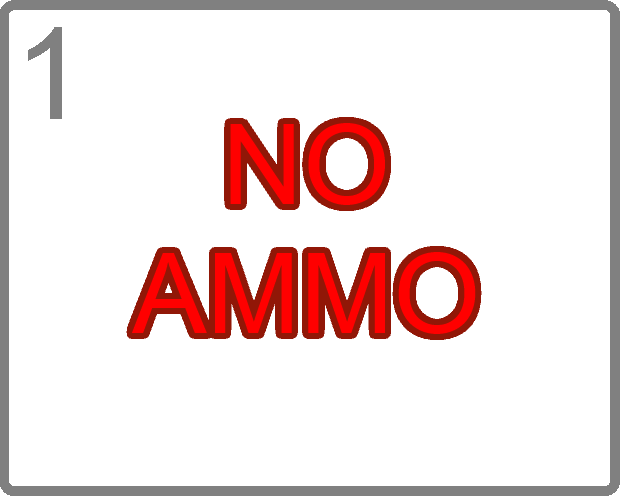
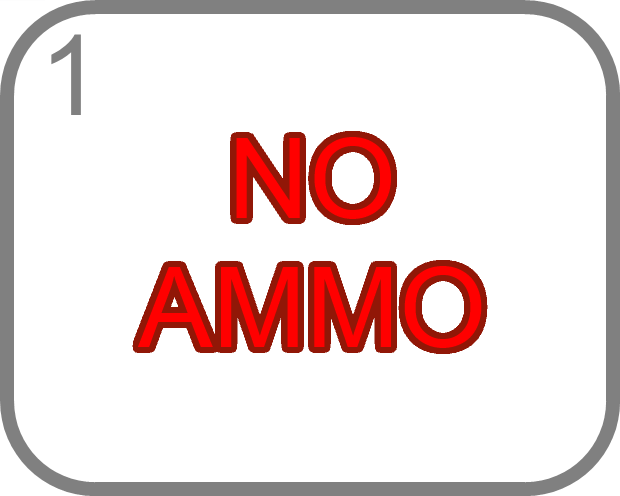
Adding in new slots with rounded edges. Legacy slots are now in a new appropriately named folder. Unwhitelisted words are now garbled with animal sounds. Punctuation marks are no longer removed when a word is garbled. Created a whitelist tool in /tools that should be used when modifying the whitelis

diff --git a/game/tools/whitelist.py b/game/tools/whitelist.py
@@ -1,0 +1,76 @@
+""" Whitelist Tools for keeping ciwhitelist clean
+makes adding and removing words seamless. """
+
+import os, sys
+
+words = []
+whitelist = '../phase_3/etc/ciwhitelist.dat'
+
+def loadWhitelist():
+    print "Loading whitelist, this may take awhile..."
+    try:
+        f = open(whitelist, 'r')
+        for line in f:
+            if line:
+                line = line.replace('\r', '')
+                line = line.replace('\n', '')
+                line = line.split()[0]
+                words.append(str(line))
+        f.close()
+    except:
+        print "Could not locate ciwhitelist.dat. Make sure to place this in the tools folder."
+        sys.exit()
+                
+def handleCommand(command):
+    cutStr = command.split()
+    cmd = cutStr[0]
+    if len(cutStr) == 2 and cutStr[1]:
+        word = str(cutStr[1].split()[0]).lower()
+    if cmd == '/add':
+        if word and not word in words:
+            words.append(word)
+            words.sort()
+            print "Added word to whitelist."
+        elif not word:
+            print "Cannot add an empty string!"
+        elif word in words:
+            print "Word already in whitelist!"
+    elif cmd == '/remove':
+        if word and cutStr[1] in words:
+            words.remove(word)
+            words.sort()
+            print "Removed word from whitelist."
+        elif not word:
+            print "You must enter a string to remove."
+        elif not word in words:
+            print "That word isn't in the whitelist!"
+    elif cmd == '/check':
+        if word and word in words:
+            print "%s is whitelisted." % word
+        elif word and not word in words:
+            print "%s is not whitelisted." % word
+        elif not word:
+            print "Cannot check an empty string."
+    elif cmd == '/build':
+        print "Building the whitelist... This may take awhile"
+        words.sort()
+        os.remove(whitelist)
+        new_whitelist = open(whitelist, 'w')
+        for word in words:
+            new_whitelist.write(str(word) + '\n')
+        new_whitelist.close()
+        print "New whitelist was successfully built!"
+    printCommands()
+
+def printCommands():
+    print "--Commands--"
+    print "-/add [word] (adds a word to the whitelist)"
+    print "-/remove [word] (removes a word from the whitelist)"
+    print "-/check [word] (checks if a word exists in the whitelist)"
+    print "-/build (build the new whitelist)"
+    command = raw_input("Enter a command: ")
+    handleCommand(command)
+    
+print "DecodedLogic's Whitelist Tools [v1.0]"
+loadWhitelist()
+printCommands()

diff --git a/game/lib/coginvasion/gui/ChatInput.py b/game/lib/coginvasion/gui/ChatInput.py
@@ -9,6 +9,8 @@ from panda3d.core import *
 from direct.gui.DirectGui import *
 from direct.showbase.DirectObject import *
 from direct.fsm import ClassicFSM, State, StateData
+from lib.coginvasion.globals import ChatGlobals
+import random
 
 class ChatInput(DirectObject, StateData.StateData):
 
@@ -141,7 +143,8 @@ class ChatInput(DirectObject, StateData.StateData):
                     if word and len(word) > 1 and word[len(word) - 1] in ['?', '!', '.']:
                         checkWord = word.replace(word[len(word) - 1], '')
                     if not (checkWord.lower() in open('phase_3/etc/ciwhitelist.dat').read().split()):
-                        chat = chat.replace(word, "***")
+                        garble = ChatGlobals.getGarble()
+                        chat = chat.replace(checkWord, garble[random.randrange(0, len(garble))])
                 
                 base.localAvatar.b_setChat(chat)
         self.fsm.request('idle')

diff --git a/game/lib/coginvasion/globals/ChatGlobals.py b/game/lib/coginvasion/globals/ChatGlobals.py
@@ -1,3 +1,4 @@
+from lib.coginvasion.globals import CIGlobals
 CFSpeech       = 1 << 0
 CFThought      = 1 << 1
 CFQuicktalker  = 1 << 2
@@ -53,3 +54,21 @@ WhisperColors = {
         ((0.0, 0.0, 0.0, 1.0), (0.9, 0.6, 0.1, 0.6))   # Disabled
     ),
 }
+
+def getGarble():
+    garbleData = {
+        'dog' : CIGlobals.ChatGarblerDog,
+        'rabbit' : CIGlobals.ChatGarblerRabbit,
+        'cat' : CIGlobals.ChatGarblerCat,
+        'mouse' : CIGlobals.ChatGarblerMouse,
+        'monkey' : CIGlobals.ChatGarblerMonkey,
+        'duck' : CIGlobals.ChatGarblerDuck,
+        'bear' : CIGlobals.ChatGarblerBear,
+        'horse' : CIGlobals.ChatGarblerHorse,
+        'pig' : CIGlobals.ChatGarblerPig
+    }
+    
+    garble = garbleData[base.localAvatar.animal]
+    if garble:
+        return garble
+    return CIGlobals.ChatGarblerDefault

diff --git a/game/lib/coginvasion/globals/CIGlobals.py b/game/lib/coginvasion/globals/CIGlobals.py
@@ -63,6 +63,19 @@ FactoryGame = "Factory Prowl"
 CameraShyGame = "Camera Shy"
 EagleGame = "Eagle Summit"
 DeliveryGame = "Delivery!"
+ChatGarblerDog = ['woof', 'arf', 'rruff']
+ChatGarblerCat = ['meow', 'mew']
+ChatGarblerMouse = ['squeak', 'squeaky', 'squeakity']
+ChatGarblerHorse = ['neigh', 'brrr']
+ChatGarblerRabbit = ['eek',
+ 'eepr',
+ 'eepy',
+ 'eeky']
+ChatGarblerDuck = ['quack', 'quackity', 'quacky']
+ChatGarblerMonkey = ['ooh', 'ooo', 'ahh']
+ChatGarblerBear = ['growl', 'grrr']
+ChatGarblerPig = ['oink', 'oik', 'snort']
+ChatGarblerDefault = ['blah']
 
 ThemeSong = None
 holidayTheme = None
